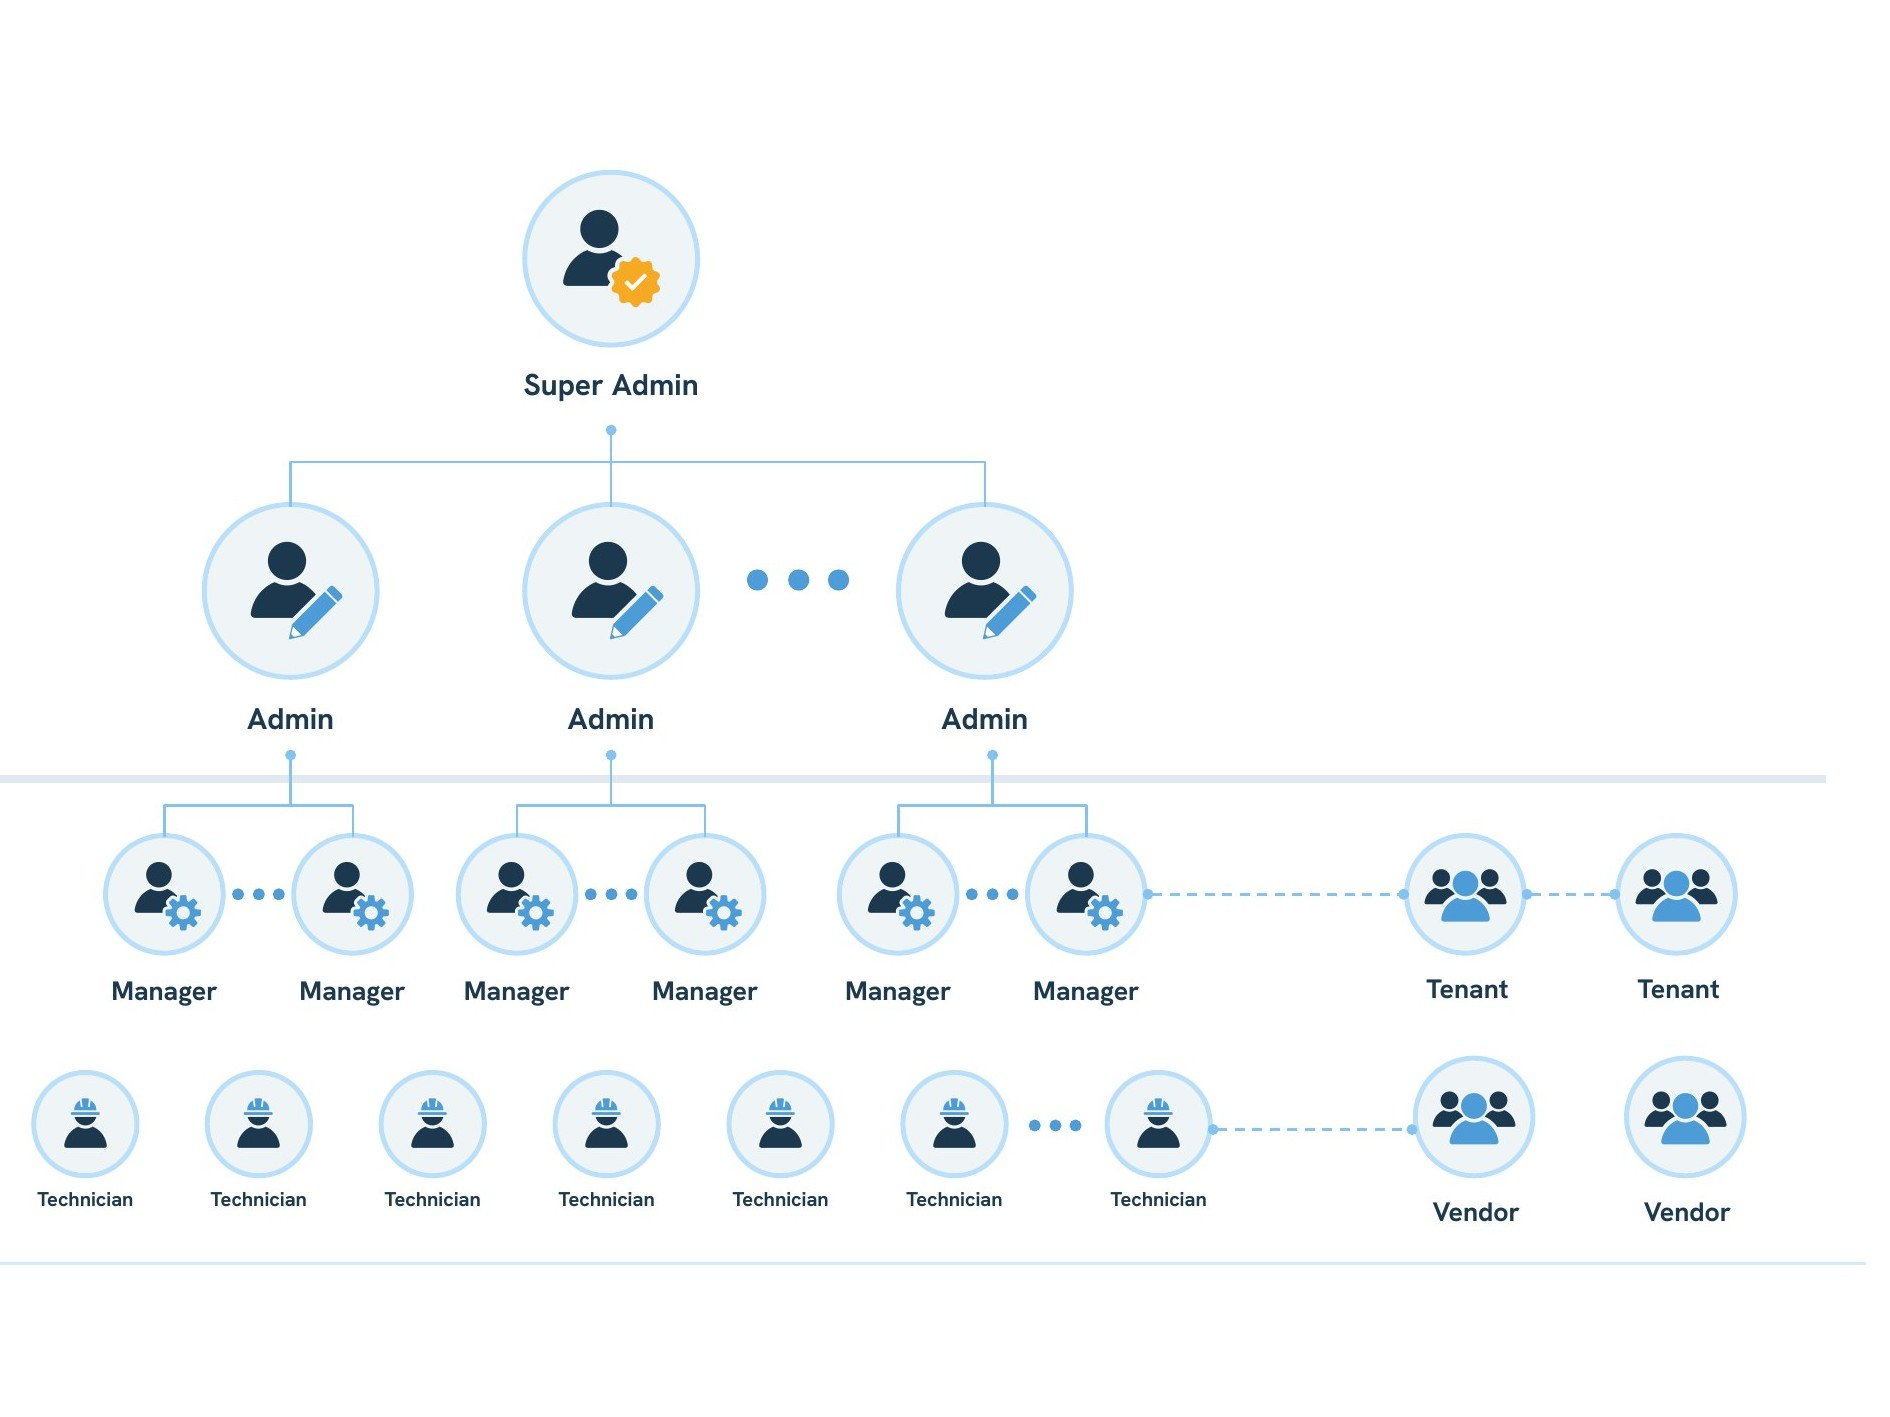
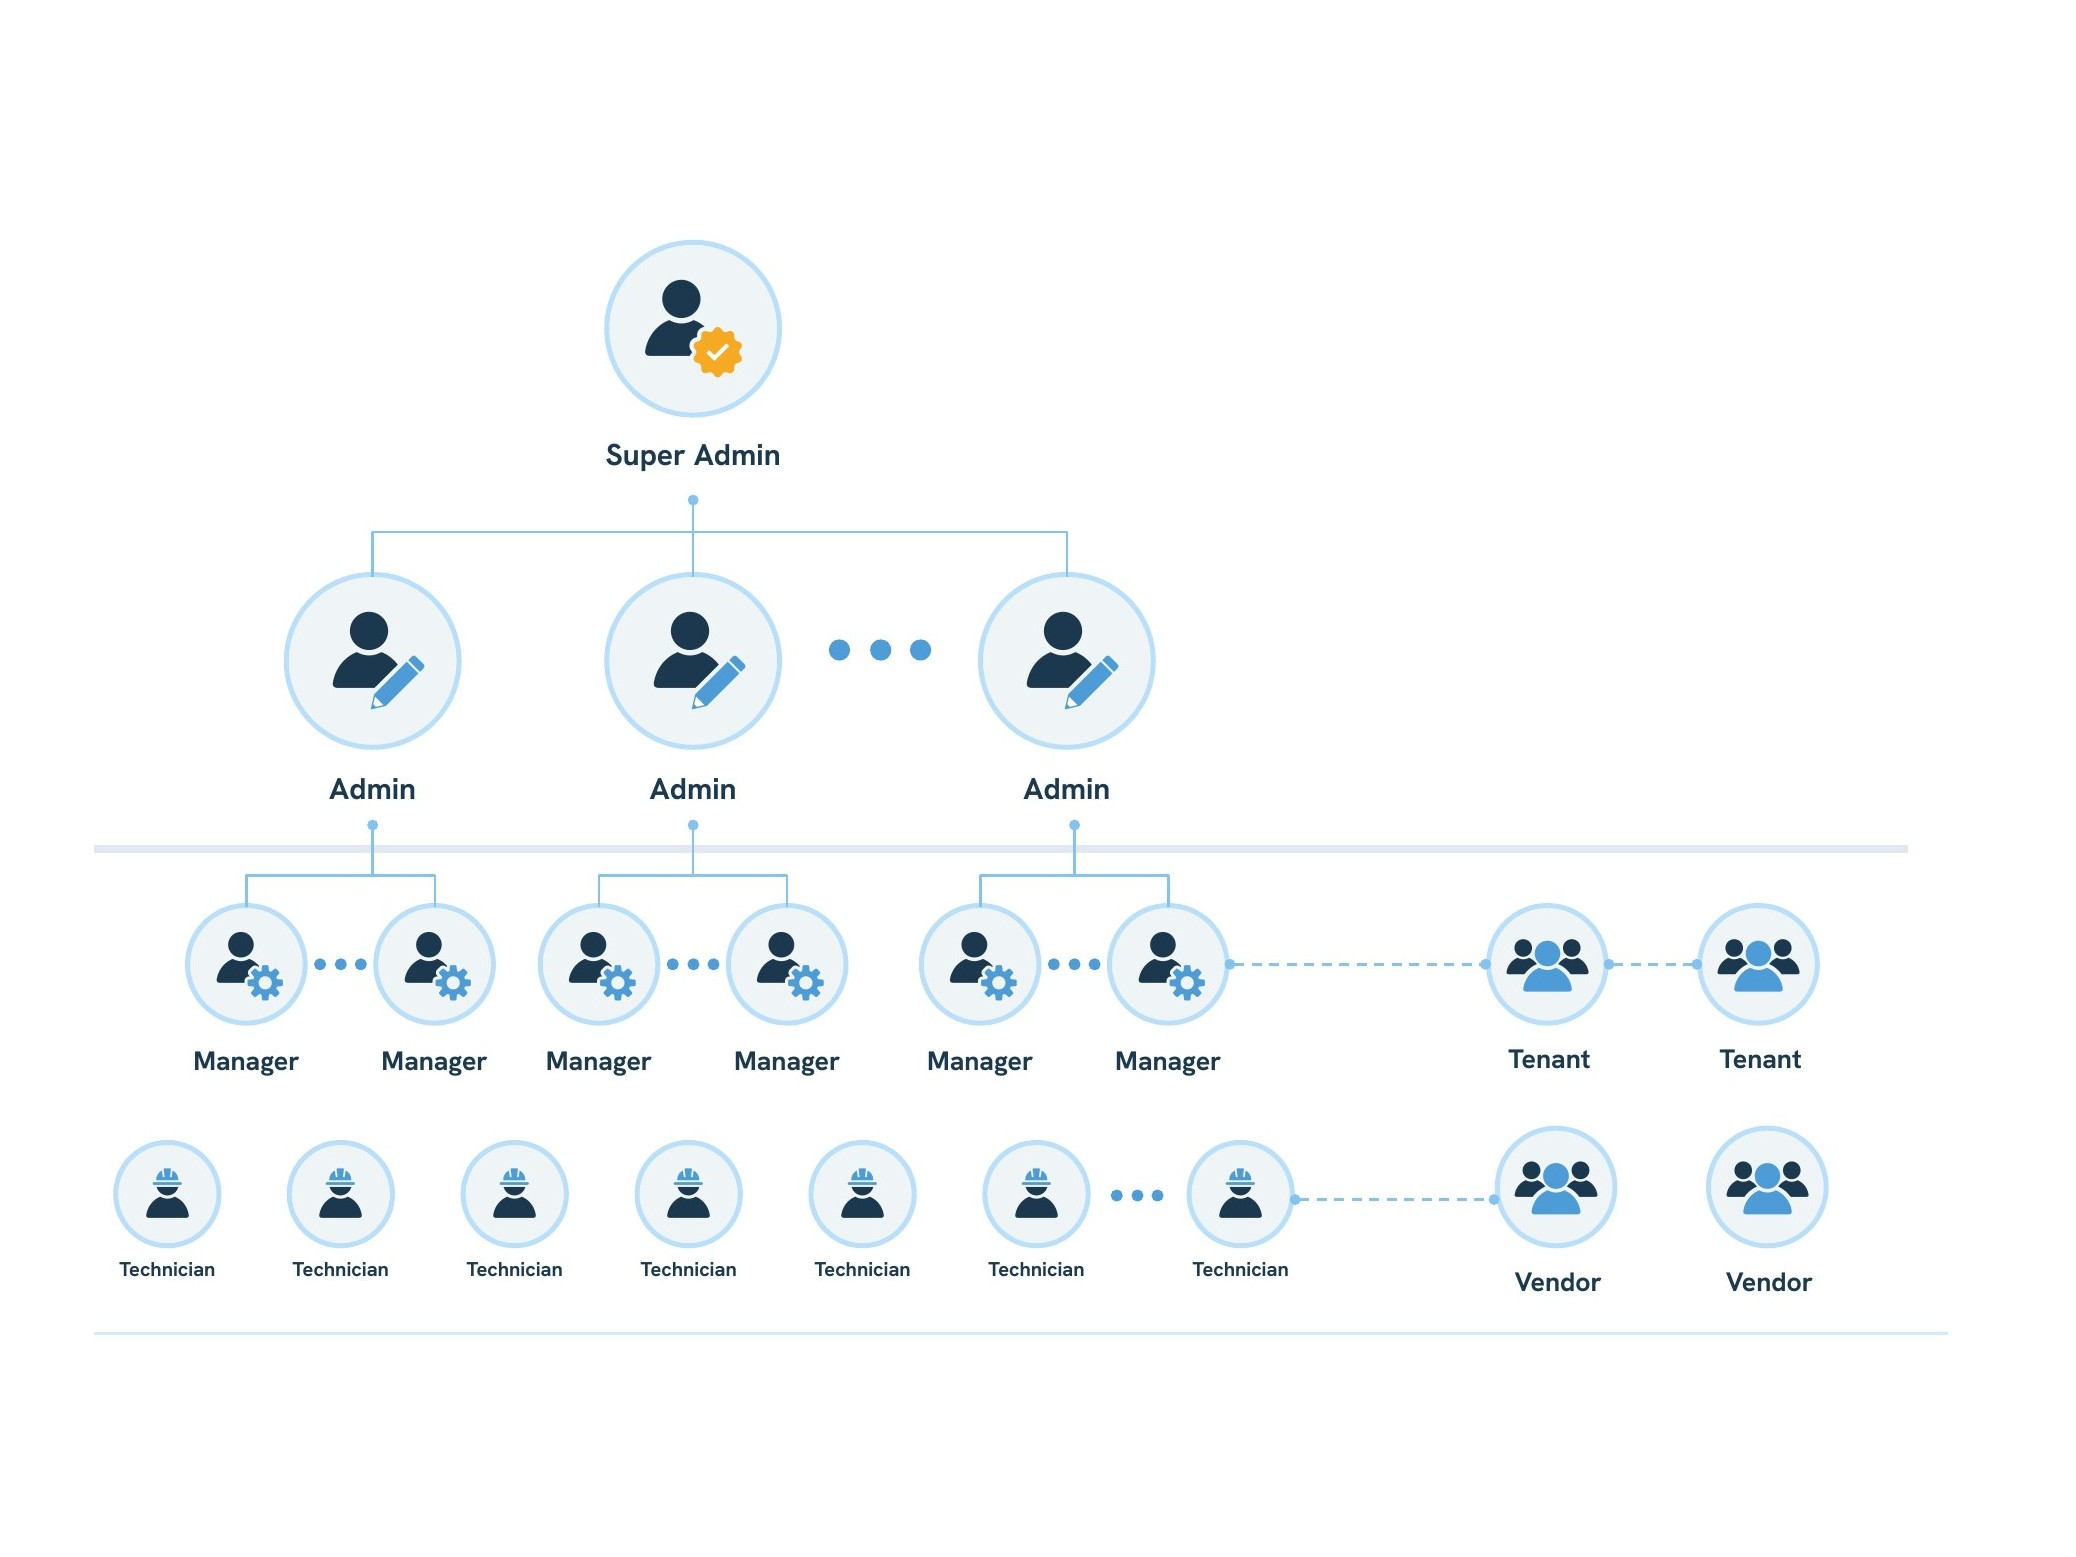
feat(web): hero below the reel's words; peeking featured card; recentred crops
- Hero: the reel sits in the top part and fades out, so the headline
  sits below its words; lighter overlay; eyebrow drops "Singapore"
- Disciplines heading in Title Case; MYJ ring and Fleet diagram centred
- Featured work: the next project peeks in, faded, on the right and can
  be clicked; buttons move below the card
- Energend thumbnail recentred on the satellite

Claude-Session: https://claude.ai/code/session_01MMtvy2CtvaMDFZdxa1ksQv

Changed region(s): [[0.0, 0.1242, 0.9677, 0.8694], [0.4683, 0.7142, 0.6556, 0.8694]]

diff --git a/web/src/data/home.ts b/web/src/data/home.ts
@@ -47,7 +47,7 @@ export const home = {
   },
 
   hero: {
-    eyebrow: 'Strategy-driven creative agency, Singapore',
+    eyebrow: 'Strategy-driven creative agency',
     title: 'We turn complex ideas into *brands* people trust.',
     lead: 'Brand identity, 3D animation and strategy for financial institutions, healthcare innovators and luxury brands. Based in Singapore, working worldwide.',
     primary: { label: 'Start a Project', href: '/contact' } satisfies Link,
@@ -58,7 +58,7 @@ export const home = {
 
   services: {
     eyebrow: 'What we do',
-    title: 'Designed to own the category',
+    title: 'Designed to Own the Category',
     items: [
       {
         ...branding,
